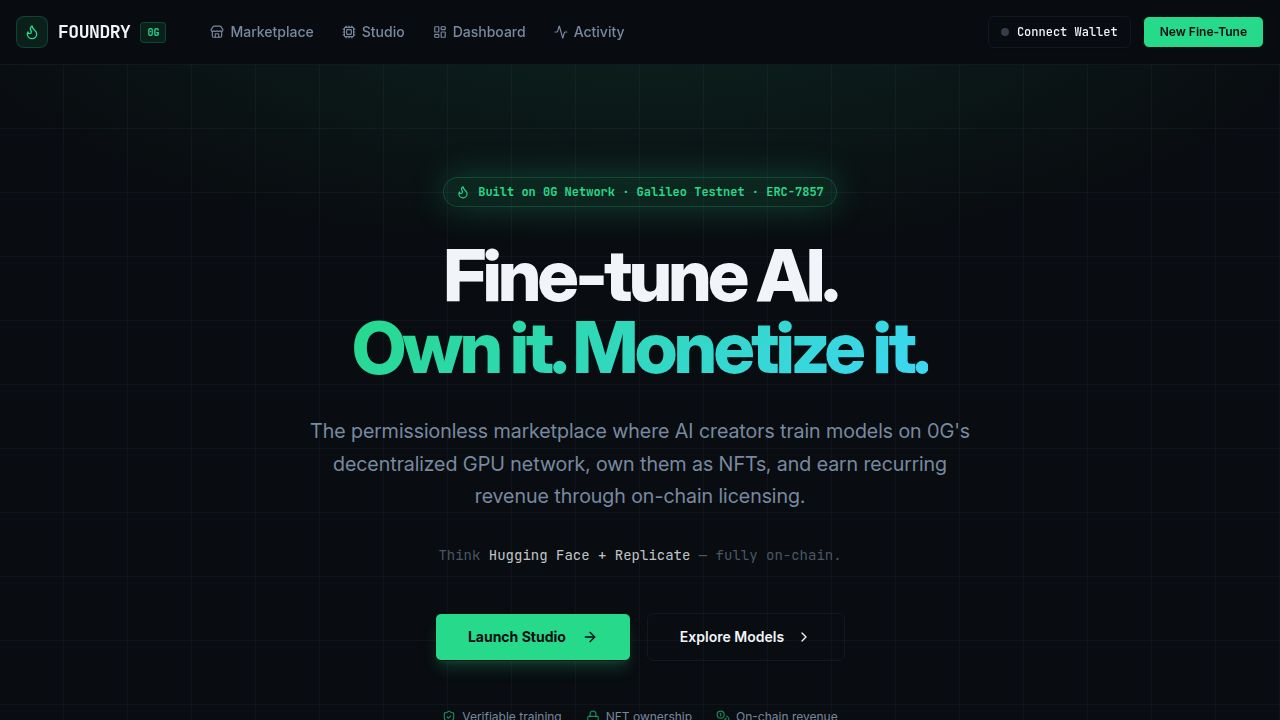
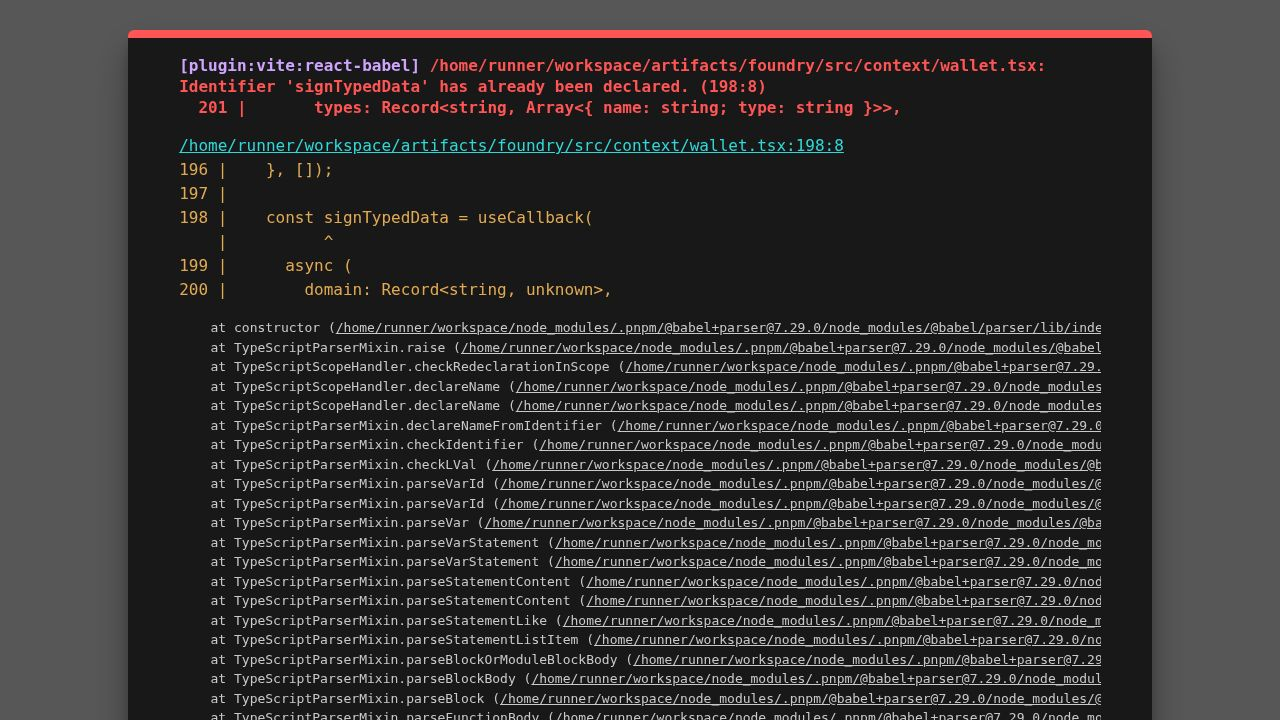
Task #3: Real 0G Storage upload — explicit, no silent fake-hash fallback
Original task: replace simulated dataset upload to 0G Storage with a real
on-chain upload producing a genuine root hash + chainscan link.

Core changes (api-server):
- artifacts/api-server/src/lib/og-storage.ts rewritten:
  * uploadToOgStorage() now THROWS instead of silently falling back to a
    deterministic fake hash. Two new typed errors:
      - OgStorageConfigError when OG_PRIVATE_KEY is missing
      - OgStorageUploadError when the indexer / network fails
  * Per Replit principle "explicit when it fails instead of utilizing
    silent fallbacks" — judges (or anyone) can never be misled into
    thinking a fake hash on chainscan-galileo is a real transaction.
  * Result type now also includes storageExplorerUrl
    (storagescan-galileo.0g.ai/file/<rootHash>) and bytes count for
    richer logging / UI display.
  * Added isOgStorageConfigured() helper.
- artifacts/api-server/src/routes/fine-tune.ts:
  * Wraps the dataset upload in a try/catch that classifies the failure
    (config vs upload) and re-throws.
  * The pipeline's outer .catch now writes status=failed + errorMessage
    onto the fine_tune_jobs row, so the Studio UI shows a useful failure
    instead of a stuck "uploading…" spinner.

UI polish (foundry web):
- Studio job card: dataset root hash appears inline as a clickable
  storagescan-galileo.0g.ai/file/<hash> link the moment the upload
  completes, so judges can verify the real on-chain artifact mid-job.
[…]

diff --git a/artifacts/api-server/src/lib/og-storage.ts b/artifacts/api-server/src/lib/og-storage.ts
@@ -11,34 +11,56 @@ const OG_INDEXER_URL =
   "https://indexer-storage-testnet-standard.0g.ai";
 const OG_EVM_RPC = process.env.OG_EVM_RPC ?? "https://evmrpc-testnet.0g.ai";
 const OG_CHAIN_EXPLORER = "https://chainscan-galileo.0g.ai/tx";
+const OG_STORAGE_EXPLORER = "https://storagescan-galileo.0g.ai/file";
 
 export type OgUploadResult = {
   txHash: string;
   rootHash: string;
+  /** chainscan-galileo.0g.ai/tx/<txHash> — the on-chain submit transaction. */
   explorerUrl: string;
-  real: boolean;
+  /** storagescan-galileo.0g.ai/file/<rootHash> — the stored file artifact. */
+  storageExplorerUrl: string;
+  bytes: number;
 };
+
+export class OgStorageConfigError extends Error {
+  constructor(message: string) {
+    super(message);
+    this.name = "OgStorageConfigError";
+  }
+}
+
+export class OgStorageUploadError extends Error {
+  constructor(message: string, public readonly cause?: unknown) {
+    super(message);
+    this.name = "OgStorageUploadError";
+  }
+}
 
 // Bridge type: extract what Indexer.upload actually expects as its signer parameter.
 // This resolves the ESM (lib.esm) vs CJS (lib.commonjs) dual-package type conflict
 // that occurs because ethers ships separate entry points for each module system.
 type IndexerUploadSigner = Parameters<InstanceType<typeof Indexer>["upload"]>[2];
 
+/**
+ * Upload arbitrary content to 0G Storage on the Galileo testnet via the
+ * official @0glabs/0g-ts-sdk Indexer. Returns the real on-chain root hash
+ * and submit transaction hash.
+ *
+ * Throws OgStorageConfigError when OG_PRIVATE_KEY is not configured — the
+ * caller is responsible for surfacing this clearly (no silent fake-hash
+ * fallback that would mislead the UI / judges into thinking a fake hash
+ * is real). Throws OgStorageUploadError on indexer / network failure.
+ */
 export async function uploadToOgStorage(content: string, label: string): Promise<OgUploadResult> {
   const privateKey = process.env.OG_PRIVATE_KEY;
-  if (privateKey) {
-    try {
-      return await realOgUpload(content, label, privateKey);
-    } catch (uploadErr) {
-      log.warn({ err: String(uploadErr), label }, "0G upload failed, using deterministic hash");
-    }
-  } else {
-    log.info({ label }, "OG_PRIVATE_KEY not configured — using deterministic hash for demo");
+  if (!privateKey) {
+    throw new OgStorageConfigError(
+      "OG_PRIVATE_KEY is not configured. Set it to a funded 0G Galileo testnet wallet " +
+      "private key to enable real dataset uploads to 0G Storage."
+    );
   }
-  return deterministicHash(content, label);
-}
 
-async function realOgUpload(content: string, label: string, privateKey: string): Promise<OgUploadResult> {
   const encoder = new TextEncoder();
   const bytes = encoder.encode(content);
   const memData = new MemData(bytes);
@@ -49,43 +71,52 @@ async function realOgUpload(content: string, label: string, privateKey: string):
   const wallet = new ethers.Wallet(privateKey, provider) as unknown as IndexerUploadSigner;
 
   const indexer = new Indexer(OG_INDEXER_URL);
-  log.info({ label, bytes: bytes.length }, "Uploading to 0G Storage via Indexer");
+  log.info(
+    { label, bytes: bytes.length, indexer: OG_INDEXER_URL, evmRpc: OG_EVM_RPC },
+    "0G Storage: uploading via Indexer"
+  );
 
-  const [result, err] = await indexer.upload(memData, OG_EVM_RPC, wallet, {
-    tags: "0x",
-    finalityRequired: false,
-    taskSize: 1,
-    expectedReplica: 1,
-    skipTx: false,
-    fee: 0n,
-  });
-
-  if (err != null) {
-    throw new Error(err.message);
+  let result: { txHash: string; rootHash: string };
+  let err: Error | null;
+  try {
+    [result, err] = await indexer.upload(memData, OG_EVM_RPC, wallet, {
+      tags: "0x",
+      finalityRequired: false,
+      taskSize: 1,
+      expectedReplica: 1,
+      skipTx: false,
+      fee: 0n,
+    });
+  } catch (caught) {
+    log.error({ label, err: String(caught) }, "0G Storage: indexer.upload threw");
+    throw new OgStorageUploadError(
+      `0G Storage upload failed for "${label}": ${caught instanceof Error ? caught.message : String(caught)}`,
+      caught
+    );
   }
 
-  log.info({ label, txHash: result.txHash, rootHash: result.rootHash }, "0G upload complete");
+  if (err != null) {
+    log.error({ label, err: err.message }, "0G Storage: indexer returned error");
+    throw new OgStorageUploadError(
+      `0G Storage upload failed for "${label}": ${err.message}`,
+      err
+    );
+  }
+
+  log.info(
+    { label, txHash: result.txHash, rootHash: result.rootHash, bytes: bytes.length },
+    "0G Storage: upload complete"
+  );
   return {
     txHash: result.txHash,
     rootHash: result.rootHash,
     explorerUrl: `${OG_CHAIN_EXPLORER}/${result.txHash}`,
-    real: true,
+    storageExplorerUrl: `${OG_STORAGE_EXPLORER}/${result.rootHash}`,
+    bytes: bytes.length,
   };
 }
 
-function deterministicHash(content: string, label: string): OgUploadResult {
-  let hash = 0n;
-  for (let i = 0; i < content.length; i++) {
-    hash = (hash * 31n + BigInt(content.charCodeAt(i))) % (2n ** 256n);
-  }
-  const rootHash = "0x" + hash.toString(16).padStart(64, "0");
-
-  const ts = Date.now();
-  const combined = content + ts.toString() + label;
-  let txHash2 = 0n;
-  for (let i = 0; i < combined.length; i++) {
-    txHash2 = (txHash2 * 37n + BigInt(combined.charCodeAt(i))) % (2n ** 256n);
-  }
-  const txHash = "0x" + txHash2.toString(16).padStart(64, "0");
-  return { txHash, rootHash, explorerUrl: `${OG_CHAIN_EXPLORER}/${txHash}`, real: false };
+/** Whether the server is configured to perform real uploads. */
+export function isOgStorageConfigured(): boolean {
+  return !!process.env.OG_PRIVATE_KEY;
 }

diff --git a/artifacts/foundry/src/pages/model-detail.tsx b/artifacts/foundry/src/pages/model-detail.tsx
@@ -13,11 +13,10 @@ import { truncateHash, truncateWallet, CATEGORY_COLORS, CATEGORY_LABELS, cn } fr
 import { OgLink } from "@/components/0g-link";
 import {
   Terminal, Database, Box, Play, Lock, Unlock, Check,
-  Copy, Zap, Users, ArrowLeft, ShieldCheck, Code2
+  Copy, Zap, Users, ArrowLeft, ShieldCheck, Code2, ExternalLink
 } from "lucide-react";
 import { useToast } from "@/hooks/use-toast";
 import { useQueryClient } from "@tanstack/react-query";
-import { Link } from "wouter";
 
 type LicenseTier = "monthly" | "quarterly" | "annual";
 
@@ -77,9 +76,9 @@ export default function ModelDetail() {
       description: "Approve the purchase intent in your wallet. No gas required.",
     });
 
-    const signature = await signTypedData({
-      domain: { name: "Foundry", version: "1", chainId: 16600 },
-      types: {
+    const signature = await signTypedData(
+      { name: "Foundry", version: "1", chainId: 16600 },
+      {
         PurchaseLicense: [
           { name: "modelId", type: "uint256" },
           { name: "buyer", type: "address" },
@@ -87,9 +86,9 @@ export default function ModelDetail() {
           { name: "signedAt", type: "uint256" },
         ],
       },
-      primaryType: "PurchaseLicense",
-      message: { modelId, buyer: walletAddress, durationDays, signedAt },
-    });
+      { modelId, buyer: walletAddress, durationDays, signedAt },
+      "PurchaseLicense",
+    );
 
     if (!signature) {
       toast({
@@ -126,18 +125,18 @@ export default function ModelDetail() {
     if (!isConnected) { openConnectModal(); return; }
 
     const signedAt = Date.now();
-    const signature = await signTypedData({
-      domain: { name: "Foundry", version: "1", chainId: 16600 },
-      types: {
+    const signature = await signTypedData(
+      { name: "Foundry", version: "1", chainId: 16600 },
+      {
         Inference: [
           { name: "modelId", type: "uint256" },
           { name: "caller", type: "address" },
           { name: "signedAt", type: "uint256" },
         ],
       },
-      primaryType: "Inference",
-      message: { modelId, caller: walletAddress, signedAt },
-    });
+      { modelId, caller: walletAddress, signedAt },
+      "Inference",
+    );
 
     if (!signature) {
       toast({
@@ -417,7 +416,29 @@ console.log(response.output);
                     </label>
                     <div className="flex items-center gap-2 font-mono text-xs text-foreground/70">
                       <Database className="h-3.5 w-3.5 text-primary/60" />
-                      {truncateHash(model.datasetRootHash)}
+                      <span data-testid="text-dataset-root-hash">{truncateHash(model.datasetRootHash)}</span>
+                      <button
+                        onClick={async () => {
+                          await navigator.clipboard.writeText(model.datasetRootHash!);
+                          toast({ title: "Root hash copied" });
+                        }}
+                        className="p-1 rounded hover:bg-muted/60 text-muted-foreground hover:text-foreground transition-colors"
+                        title="Copy root hash"
+                        data-testid="button-copy-dataset-hash"
+                      >
+                        <Copy className="h-3 w-3" />
+                      </button>
+                      <a
+                        href={`https://storagescan-galileo.0g.ai/file/${model.datasetRootHash}`}
+                        target="_blank"
+                        rel="noopener noreferrer"
+                        className="inline-flex items-center gap-1 text-[10px] font-mono text-primary/80 hover:text-primary border border-primary/30 hover:border-primary/60 rounded px-1.5 py-0.5 transition-colors"
+                        title="View dataset on 0G Storage Explorer"
+                        data-testid="link-dataset-storage-explorer"
+                      >
+                        <ExternalLink className="h-2.5 w-2.5" />
+                        0G Storage
+                      </a>
                     </div>
                     <p className="text-xs text-muted-foreground mt-2">
                       Dataset is permanently stored on 0G's decentralized storage network.

diff --git a/artifacts/api-server/src/routes/fine-tune.ts b/artifacts/api-server/src/routes/fine-tune.ts
@@ -11,7 +11,7 @@ import {
   GetFineTuneJobResponse,
   GetFineTuneJobStatusResponse,
 } from "@workspace/api-zod";
-import { uploadToOgStorage } from "../lib/og-storage";
+import { uploadToOgStorage, isOgStorageConfigured, OgStorageConfigError, OgStorageUploadError } from "../lib/og-storage";
 import { mintModelNft } from "../lib/og-chain";
 import { createFineTuneTask, pollTaskStatus, isCliEnabled } from "../lib/og-fine-tune";
 import { logger } from "../lib/logger";
@@ -165,8 +165,14 @@ router.post("/fine-tune", async (req, res): Promise<void> => {
     sampleOutput,
     licensePriceUsd,
     creatorWallet
-  ).catch((err: unknown) => {
-    req.log?.error({ err: String(err), jobId: job.id }, "Pipeline error");
+  ).catch(async (err: unknown) => {
+    const msg = err instanceof Error ? err.message : String(err);
+    req.log?.error({ err: msg, jobId: job.id }, "Pipeline error");
+    await db.update(fineTuneJobsTable).set({
+      status: "failed",
+      progressPct: 0,
+      errorMessage: msg.slice(0, 500),
+    }).where(eq(fineTuneJobsTable.id, job.id)).catch(() => {});
   });
 });
 
@@ -232,10 +238,25 @@ async function runPipeline(
   licensePriceUsd: number,
   creatorWallet: string
 ): Promise<void> {
-  await sleep(1500);
+  await sleep(500);
   await db.update(fineTuneJobsTable).set({ progressPct: 10 }).where(eq(fineTuneJobsTable.id, jobId));
 
-  const datasetUpload = await uploadToOgStorage(datasetContent, `dataset-job-${jobId}`);
+  // ─── Real 0G Storage dataset upload ────────────────────────────────────
+  // Throws OgStorageConfigError if OG_PRIVATE_KEY is missing, or
+  // OgStorageUploadError if the indexer / network fails. Both bubble up to
+  // the route's catch handler which marks the job as failed with the
+  // surfaced error message — no silent fake-hash fallback.
+  let datasetUpload: Awaited<ReturnType<typeof uploadToOgStorage>>;
+  try {
+    datasetUpload = await uploadToOgStorage(datasetContent, `dataset-job-${jobId}`);
+  } catch (err) {
+    if (err instanceof OgStorageConfigError) {
+      logger.warn({ jobId, err: err.message }, "Dataset upload skipped: 0G Storage not configured");
+    } else if (err instanceof OgStorageUploadError) {
+      logger.error({ jobId, err: err.message }, "Dataset upload failed");
+    }
+    throw err;
+  }
 
   await db.update(fineTuneJobsTable).set({
     datasetRootHash: datasetUpload.rootHash,

diff --git a/artifacts/foundry/src/context/wallet.tsx b/artifacts/foundry/src/context/wallet.tsx
@@ -36,7 +36,6 @@ type WalletContextType = {
   isWrongChain: boolean;
   hasWallet: boolean;
   openConnectModal: () => void;
-  signTypedData: (data: unknown) => Promise<string>;
   disconnect: () => void;
   switchToOgChain: () => Promise<void>;
   signTypedData: (
@@ -56,7 +55,6 @@ const WalletContext = createContext<WalletContextType>({
   isWrongChain: false,
   hasWallet: false,
   openConnectModal: () => {},
-  signTypedData: async () => "",
   disconnect: () => {},
   switchToOgChain: async () => {},
   signTypedData: async () => null,
@@ -173,22 +171,6 @@ export function WalletProvider({ children }: { children: ReactNode }) {
     }
   }, []);
 
-  const signTypedData = useCallback(async (data: unknown) => {
-    if (!window.ethereum || !address) {
-      throw new Error("Wallet not connected");
-    }
-    try {
-      const signature = (await window.ethereum.request({
-        method: "eth_signTypedData_v4",
-        params: [address, JSON.stringify(data)],
-      })) as string;
-      return signature;
-    } catch (err) {
-      console.error("Signing failed:", err);
-      throw err;
-    }
-  }, [address]);
-
   const disconnect = useCallback(() => {
     setAddress(null);
     setChainId(null);
@@ -272,7 +254,6 @@ export function WalletProvider({ children }: { children: ReactNode }) {
         isWrongChain,
         hasWallet,
         openConnectModal,
-        signTypedData,
         disconnect,
         switchToOgChain,
         signTypedData,

diff --git a/artifacts/foundry/src/pages/studio.tsx b/artifacts/foundry/src/pages/studio.tsx
@@ -654,9 +654,21 @@ export default function Studio() {
                           0G: {truncateHash(job.jobIdOn0g)}
                         </span>
                       )}
+                      {job.datasetRootHash && (
+                        <a
+                          href={`https://storagescan-galileo.0g.ai/file/${job.datasetRootHash}`}
+                          target="_blank"
+                          rel="noopener noreferrer"
+                          className="flex items-center gap-1 bg-primary/8 hover:bg-primary/15 text-primary/90 hover:text-primary px-2 py-0.5 rounded border border-primary/25 hover:border-primary/50 transition-colors"
+                          title="View dataset on 0G Storage Explorer"
+                          data-testid={`link-dataset-${job.id}`}
+                        >
+                          Dataset: {truncateHash(job.datasetRootHash)}
+                        </a>
+                      )}
                       {job.datasetOgExplorerUrl && (
                         <span className="flex items-center gap-1 bg-muted/40 px-2 py-0.5 rounded border border-border/40">
-                          Dataset: <OgLink hash={job.datasetOgExplorerUrl.split("/").pop() || ""} type="tx" />
+                          Tx: <OgLink hash={job.datasetOgExplorerUrl.split("/").pop() || ""} type="tx" />
                         </span>
                       )}
                       {job.nftOgExplorerUrl && (